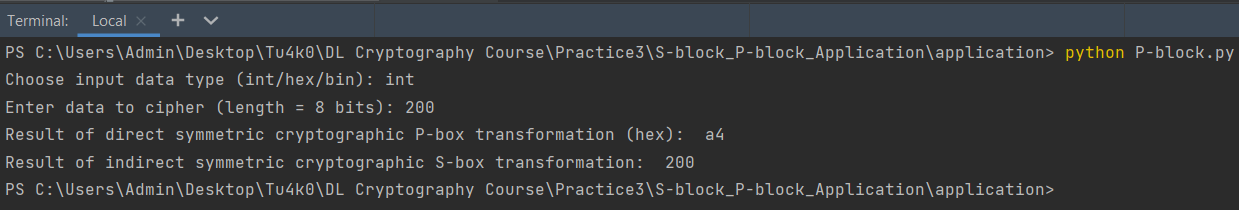
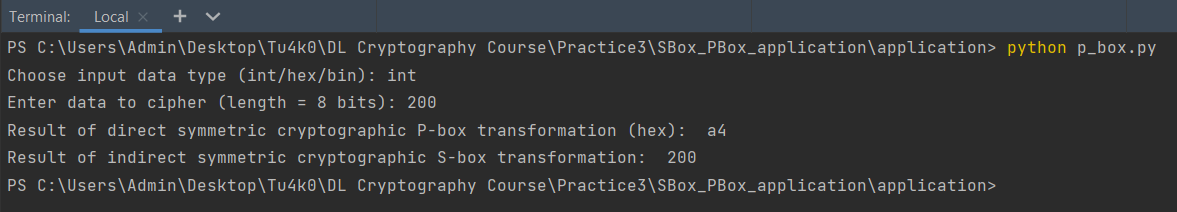
Update S-box/P-box application

diff --git a/Practice3/SBox_PBox_application/README.md b/Practice3/SBox_PBox_application/README.md
@@ -17,7 +17,7 @@
 
 
 ## Інструкція щодо запуску коду:  
-У cmd за розташуванням проекту (..\Practice3\S-block_P-bloc_Application\application) набрати команду python S-block.py (для S-блоку) або python P-block.py (для P-блоку) та слідувати настановам інтерфейсу.  
+У cmd за розташуванням проекту (..\Practice3\SBox_PBox_application\application) набрати команду python s_box.py (для S-блоку) або python p-box.py (для P-блоку) та слідувати настановам інтерфейсу.  
 
 ## Результати виконання програми для вхідного значення 200 (тип даних integer):  
 S-box  
@@ -25,3 +25,6 @@ S-box
 
 P-box  
 ![Image text](https://github.com/tu4k0/DL-Cryptography-Course/blob/master/Practice3/S-block_P-block_Application/images/P-block_result.png)
+
+## Результати тестів:  
+![Image text](https://github.com/tu4k0/DL-Cryptography-Course/blob/master/Practice3/SBox_PBox_application/images/tests.png)
